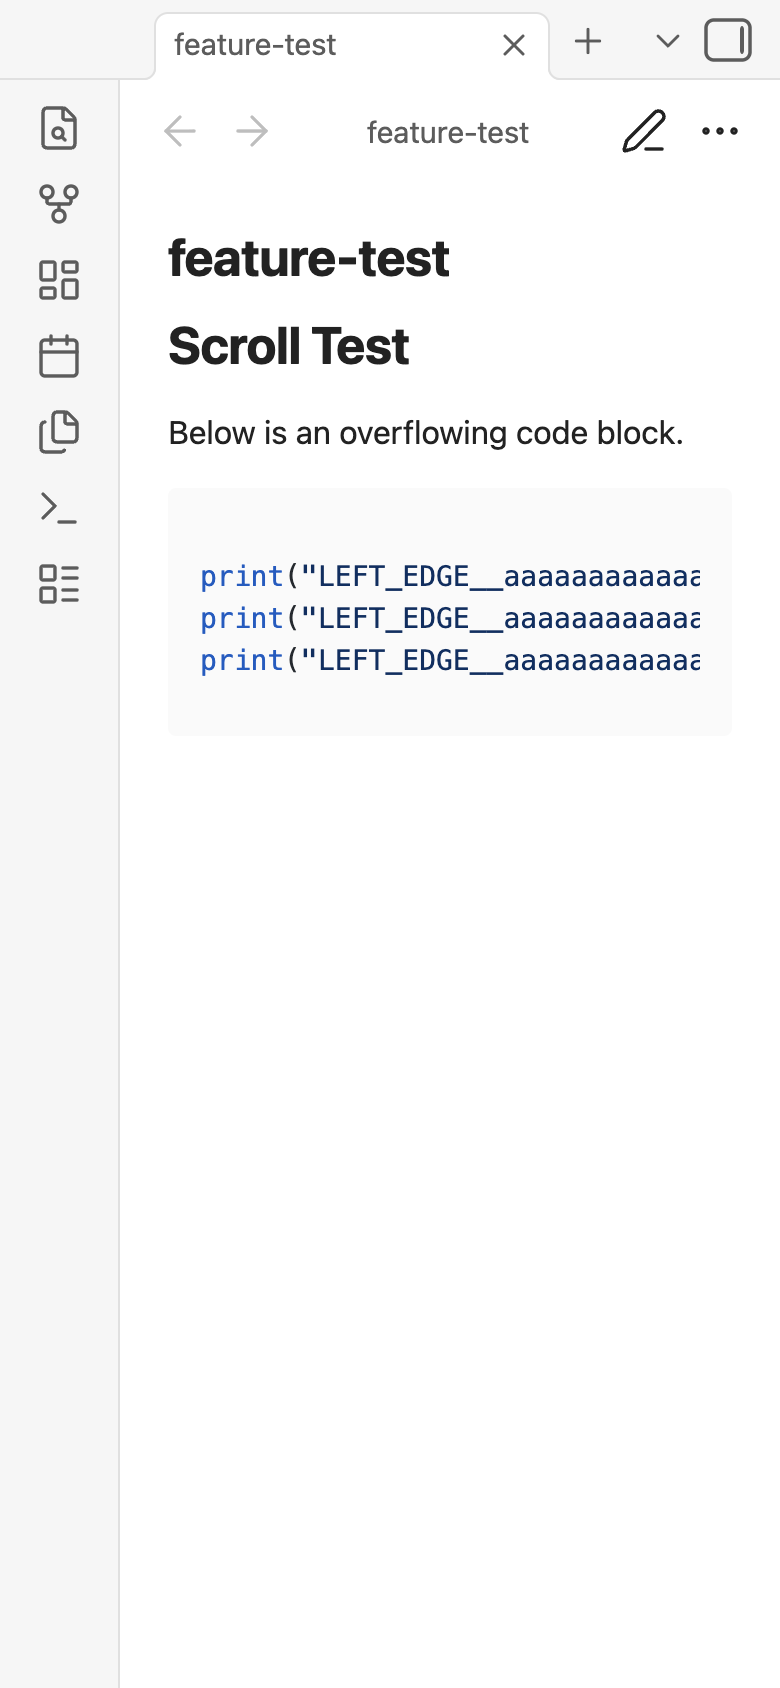
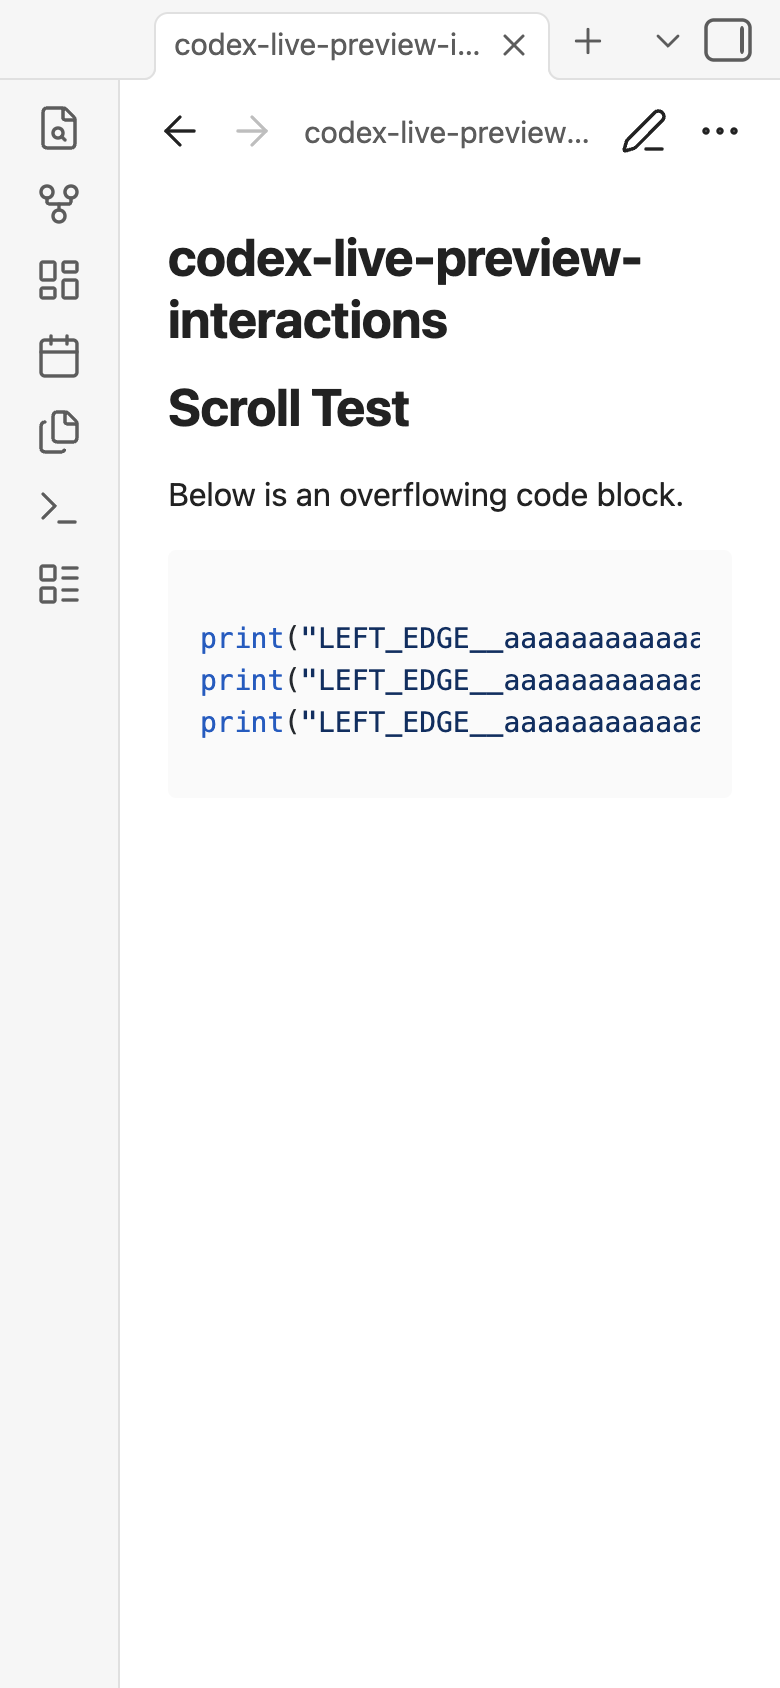
Harden reload and mobile scroll coverage

diff --git a/tests/source-mode-tokenization-cache.test.ts b/tests/source-mode-tokenization-cache.test.ts
@@ -45,3 +45,67 @@ describe('SourceModeTokenizationCache', () => {
 		expect(cache.get(input)).toBeUndefined();
 	});
 });
+
+test('plugin reload clears source mode tokenization cache before CM6 refresh', async () => {
+	const { default: ShikiHighlighterPlugin } = await import('../packages/obsidian/src/main');
+	const cacheClearCalls: string[] = [];
+	const rerenderCalls: string[] = [];
+	const updateCalls: string[] = [];
+	const surfaceThemeCalls: string[] = [];
+	const reloadCalls: string[] = [];
+	type ReloadHarness = {
+		reloadHighlighter: () => Promise<void>;
+		sourceModeTokenizationCache: { clear: () => void };
+		highlighter: { reload: () => Promise<void> };
+		activeCodeBlocks: Map<string, Array<{ forceRerender: () => Promise<void> }>>;
+		updateCm6Plugin: () => Promise<void>;
+		surfaceRegistry: { updateThemes: () => void };
+		ensureSettingsLoaded: () => Promise<void>;
+		settings: Record<string, never>;
+		loadedSettings: Record<string, never>;
+	};
+	const plugin = Object.create(ShikiHighlighterPlugin.prototype) as ReloadHarness;
+
+	plugin.settings = {};
+	plugin.loadedSettings = {};
+	plugin.ensureSettingsLoaded = async () => undefined;
+	plugin.sourceModeTokenizationCache = {
+		clear: () => {
+			cacheClearCalls.push('clear');
+		},
+	};
+	plugin.highlighter = {
+		reload: async () => {
+			reloadCalls.push('reload');
+		},
+	};
+	plugin.surfaceRegistry = {
+		updateThemes: () => {
+			surfaceThemeCalls.push('update-surfaces');
+		},
+	};
+	plugin.activeCodeBlocks = new Map([
+		[
+			'note.md',
+			[
+				{
+					forceRerender: async () => {
+						rerenderCalls.push('rerender');
+					},
+				},
+			],
+		],
+	]);
+	plugin.updateCm6Plugin = async () => {
+		updateCalls.push('update-cm6');
+	};
+
+	await plugin.reloadHighlighter();
+
+	expect(cacheClearCalls).toEqual(['clear']);
+	expect(reloadCalls).toEqual(['reload']);
+	expect(surfaceThemeCalls).toEqual(['update-surfaces']);
+	expect(rerenderCalls).toEqual(['rerender']);
+	expect(updateCalls).toEqual(['update-cm6']);
+});
+